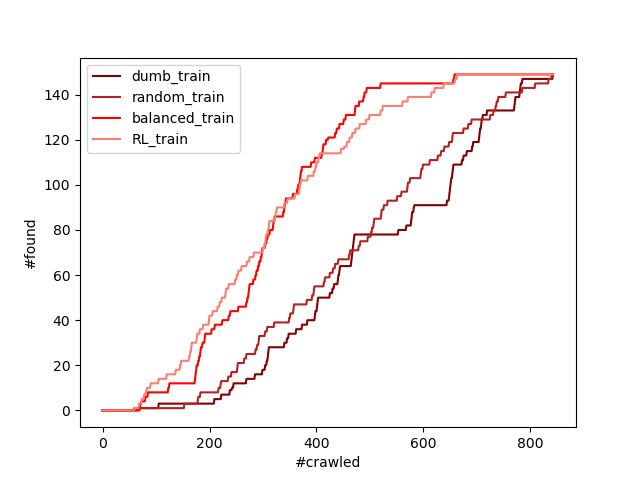
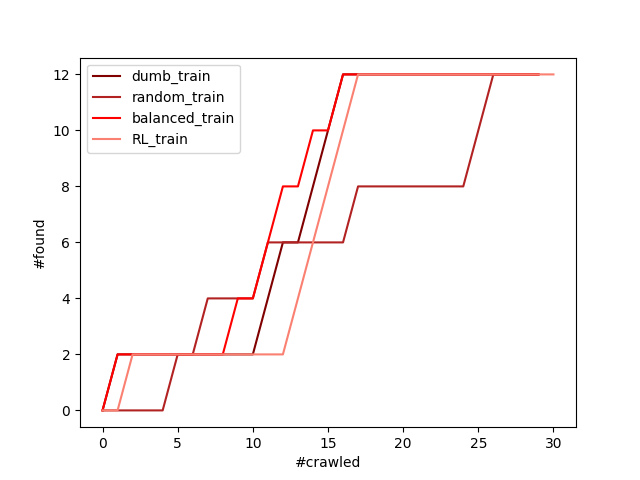
walk test domain

diff --git a/targeted-crawl/dqn-depth-total-avg.py b/targeted-crawl/dqn-depth-total-avg.py
@@ -14,7 +14,7 @@ from helpers import Env, Link
 
 ######################################################################################
 class LearningParams:
-    def __init__(self, languages, saveDir, deleteDuplicateTransitions, langPair):
+    def __init__(self, languages, saveDir, saveDirPlots, deleteDuplicateTransitions, langPair):
         self.gamma = 0.999
         self.lrn_rate = 0.1
         self.alpha = 1.0 # 0.7
@@ -30,6 +30,8 @@ class LearningParams:
         self.FEATURES_PER_ACTION = 1
 
         self.saveDir = saveDir
+        self.saveDirPlots = saveDirPlots
+
         self.deleteDuplicateTransitions = deleteDuplicateTransitions
         
         self.reward = 100.0 #17.0
@@ -227,10 +229,10 @@ def AddTodo(langsTodo, visited, link):
 ######################################################################################
 ######################################################################################
 class Qnets():
-    def __init__(self, params, env):
+    def __init__(self, params, max_env_maxLangId):
         self.q = []
-        self.q.append(Qnetwork(params, env))
-        self.q.append(Qnetwork(params, env))
+        self.q.append(Qnetwork(params, max_env_maxLangId))
+        self.q.append(Qnetwork(params, max_env_maxLangId))
 
 ######################################################################################
 class Corpus:
@@ -409,13 +411,12 @@ class Candidates:
     
 ######################################################################################
 class Qnetwork():
-    def __init__(self, params, env):
+    def __init__(self, params, max_env_maxLangId):
         self.params = params
-        self.env = env
         self.corpus = Corpus(params, self)
 
         HIDDEN_DIM = 512
-        NUM_FEATURES = env.maxLangId + 1
+        NUM_FEATURES = max_env_maxLangId + 1
 
         self.langRequested = tf.placeholder(shape=[None, 1], dtype=tf.float32)
         self.langIds = tf.placeholder(shape=[None, 2], dtype=tf.float32)
@@ -777,7 +778,7 @@ def Walk(env, params, sess, qns):
     return ret
 
 ######################################################################################
-def Train(params, sess, saver, env, qns):
+def Train(params, sess, saver, env, qns, env_test):
     totRewards = []
     totDiscountedRewards = []
 
@@ -798,19 +799,41 @@ def Train(params, sess, saver, env, qns):
             arrRandom = randomCrawl(env, len(env.nodes), params)
             arrBalanced = balanced(env, len(env.nodes), params)
             arrRL = Walk(env, params, sess, qns)
+
+            arrDumb_test = dumb(env_test, len(env_test.nodes), params)
+            arrRandom_test = randomCrawl(env_test, len(env_test.nodes), params)
+            arrBalanced_test = balanced(env_test, len(env_test.nodes), params)
+            arrRL_test = Walk(env_test, params, sess, qns)
+
             print("epoch", epoch)
 
             fig = plt.figure()
             ax = fig.add_subplot(1,1,1)
-            ax.plot(arrDumb, label="dumb")
-            ax.plot(arrRandom, label="random")
-            ax.plot(arrBalanced, label="balanced")
-            ax.plot(arrRL, label="RL")
+            ax.plot(arrDumb, label="dumb_train", color='maroon')
+            ax.plot(arrRandom, label="random_train", color='firebrick')
+            ax.plot(arrBalanced, label="balanced_train", color='red')
+            ax.plot(arrRL, label="RL_train", color='salmon')
+
             ax.legend(loc='upper left')
             plt.xlabel('#crawled')
             plt.ylabel('#found')
-            fig.show()
-            plt.pause(0.001)
+
+            fig.savefig("{}/{}_epoch{}.png".format(params.saveDirPlots, 'Train', epoch))
+            #fig.show())
+
+            #plt.pause(0.001)
+
+            fig = plt.figure()
+            ax = fig.add_subplot(1,1,1)
+            ax.plot(arrDumb_test, label="dumb_test", color='navy')
+            ax.plot(arrRandom_test, label="random_test", color='blue')
+            ax.plot(arrBalanced_test, label="balanced_test", color='dodgerblue')
+            ax.plot(arrRL_test, label="RL_test", color='lightskyblue')
+
+            ax.legend(loc='upper left')
+            plt.xlabel('#crawled')
+            plt.ylabel('#found')
+            fig.savefig("{}/{}_epoch{}".format(params.saveDirPlots, 'Test', epoch))
 
 
     return totRewards, totDiscountedRewards
@@ -827,6 +850,8 @@ def main():
                          help="The 2 language we're interested in, separated by ,")
     oparser.add_argument("--save-dir", dest="saveDir", default=".",
                          help="Directory that model WIP are saved to. If existing model exists then load it")
+    oparser.add_argument("--save-plots", dest="saveDirPlots", default="plot",
+                     help="Directory ")
     oparser.add_argument("--delete-duplicate-transitions", dest="deleteDuplicateTransitions",
                          default=False, help="If True then only unique transition are used in each batch")
     options = oparser.parse_args()
@@ -837,29 +862,37 @@ def main():
     sqlconn = MySQL(options.configFile)
 
     languages = Languages(sqlconn.mycursor)
-    params = LearningParams(languages, options.saveDir, options.deleteDuplicateTransitions, options.langPair)
+    params = LearningParams(languages, options.saveDir, options.saveDirPlots, options.deleteDuplicateTransitions, options.langPair)
 
 
     #hostName = "http://www.visitbritain.com/"
     hostName = "http://www.buchmann.ch/"
     #hostName = "http://vade-retro.fr/"    # smallest domain for debugging
-    
+
+    hostName_test = "http://www.visitbritain.com/"
+    #hostName_test = "http://vade-retro.fr/"    # smallest domain for debugging
+
     env = Env(sqlconn, hostName)
+    env_test = Env(sqlconn, hostName_test)
 
     # change language of start node. 0 = stop
     env.nodes[sys.maxsize].lang = languages.GetLang("None")
+    env_test.nodes[sys.maxsize].lang = languages.GetLang("None")
     #for node in env.nodes.values():
     #    print(node.Debug())
 
+    max_env_maxLangId = max([env.maxLangId, env_test.maxLangId])
+    env.maxLangId = env_test.maxLangId = max_env_maxLangId
+
     tf.reset_default_graph()
-    qns = Qnets(params, env)
+    qns = Qnets(params, max_env_maxLangId)
     init = tf.global_variables_initializer()
 
     saver = None #tf.train.Saver()
     with tf.Session() as sess:
         sess.run(init)
 
-        totRewards, totDiscountedRewards = Train(params, sess, saver, env, qns)
+        totRewards, totDiscountedRewards = Train(params, sess, saver, env, qns, env_test)
 
         #params.debug = True
         arrDumb = dumb(env, len(env.nodes), params)
